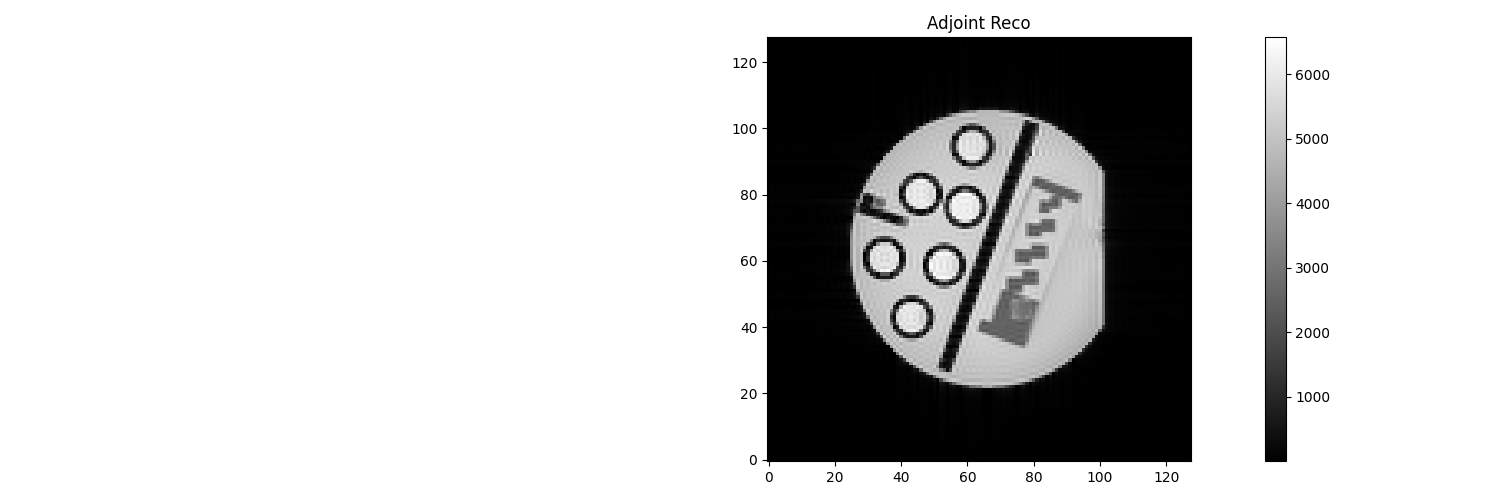
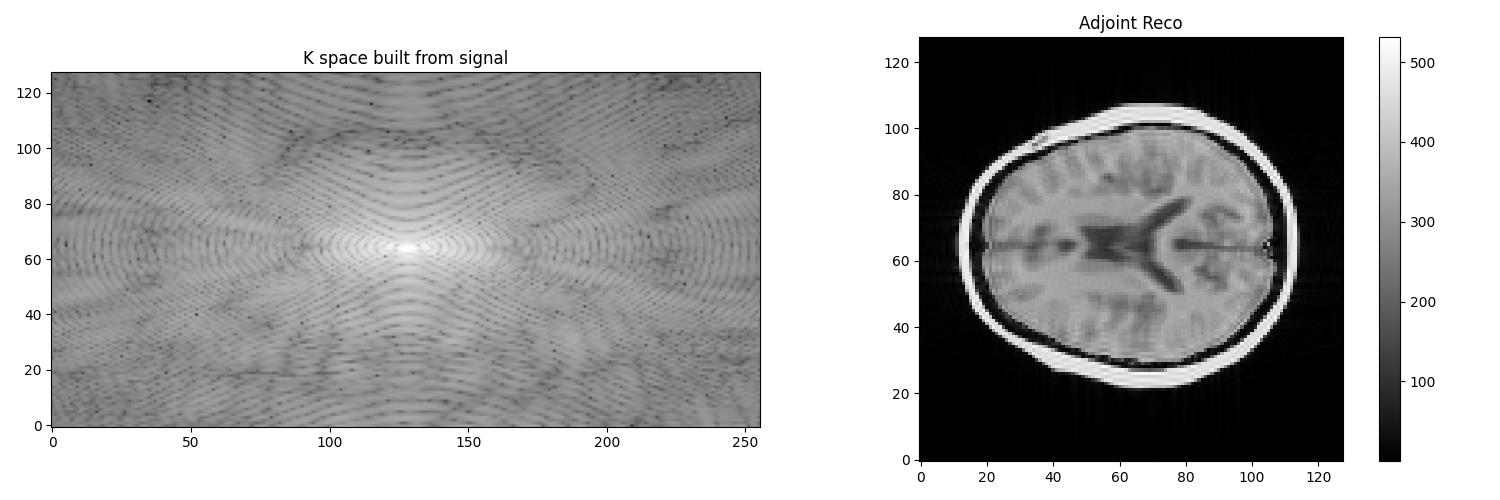
brainweb phantom generation added

diff --git a/src/voxelgridphantom/brainweb_download.py b/src/voxelgridphantom/brainweb_download.py
@@ -1,0 +1,183 @@
+# SPDX-License-Identifier: AGPL-3.0-or-later
+"""Generate separate water/fat NPZ maps from the BrainWeb fuzzy tissue data.
+
+Numerical conventions follow the MRtini generator supplied by the user.
+Historical tissue constants: MRzero-Core, commit d7362c876bb39d7221354a2388d0e6df3c3ff959.
+BrainWeb source: https://brainweb.bic.mni.mcgill.ca/brainweb/
+"""
+from pathlib import Path
+import gzip
+import json
+import os
+import tempfile
+import zipfile
+import numpy as np
+
+_RAW_SHAPE = (362, 434, 362)
+_FOV = (0.181, 0.217, 0.181)
+_URL = 'https://brainweb.bic.mni.mcgill.ca/cgi/brainweb1'
+_CONFIG = Path(__file__).with_name('brainweb_presets.json')
+_KEYS = {'PD': 'PD', 'T1': 'T1', 'T2': 'T2', "T2'": 'T2dash', 'D': 'D'}
+_FAT = {'fat', 'mus', 'm-s', 'dura', 'fat2'}
+
+
+def _raw_bytes(path, size):
+    with gzip.open(path, 'rb') as f:
+        raw = f.read(size + 1)
+    if len(raw) != size:
+        raise ValueError(f'{path}: expected {size} uncompressed bytes, got {len(raw)}')
+    return raw
+
+
+def _load_raw(subject, alias, cache_dir, shape, verbose):
+    tag = f'subject{subject:02d}_{alias}'
+    path = cache_dir / (tag + '.i8.gz')
+    size = int(np.prod(shape))
+    if path.exists():
+        try:
+            raw = _raw_bytes(path, size)
+            if verbose: print(f'Using cached {tag}', flush=True)
+            return np.frombuffer(raw, np.uint8).reshape(shape).swapaxes(0, 2)
+        except (OSError, EOFError, ValueError):
+            if verbose: print(f'Invalid cache {path}; downloading again', flush=True)
+    import requests  # only needed when raw data is absent
+    if verbose: print(f'Downloading {tag} ...', flush=True)
+    fd, name = tempfile.mkstemp(dir=cache_dir, suffix='.part')
+    os.close(fd)
+    tmp = Path(name)
+    try:
+        with requests.post(_URL, data={'do_download_alias':tag, 'format_value':'raw_byte', 'zip_value':'gnuzip'}, stream=True, timeout=(20,180)) as response:
+            response.raise_for_status()
+            with tmp.open('wb') as f:
+                for chunk in response.iter_content(chunk_size=1024*1024):
+                    if chunk: f.write(chunk)
+        raw = _raw_bytes(tmp, size)  # validate gzip and shape before publishing cache
+        os.replace(tmp, path)
+    except Exception as exc:
+        raise RuntimeError(f'BrainWeb download failed for {tag}: {exc}') from exc
+    finally:
+        tmp.unlink(missing_ok=True)
+    return np.frombuffer(raw, np.uint8).reshape(shape).swapaxes(0, 2)
+
+
+def _tissue_slab(raws, aliases, x0, x1, ny, nz, factor):
+    """Equivalent to sum(load_tissue(...)) followed by the original downsample."""
+    slab = None
+    for raw, alias in zip(raws, aliases):
+        b = raw[x0*factor:x1*factor, :ny*factor, :nz*factor] + np.uint8(128)
+        if alias == 'ves': b[b == 1] = 0
+        v = b.astype(np.float32) / 255.0
+        if slab is None: slab = v
+        else: slab += v
+    out = np.zeros((x1-x0, ny, nz), np.float64)
+    for i in range(factor):
+        for j in range(factor):
+            for k in range(factor):
+                out += slab[i::factor, j::factor, k::factor]
+    return out / factor**3
+
+
+def _validate_header(path, shape, tissues):
+    """Read NPY headers only; avoids decompressing huge existing maps on reuse."""
+    required = [k+s for k in _KEYS.values() for s in ('_map','_fat')]
+    required += ['tissue_'+t for t in tissues]
+    with zipfile.ZipFile(path) as z:
+        for key in required + ['FOV']:
+            with z.open(key+'.npy') as f:
+                version = np.lib.format.read_magic(f)
+                if version == (1,0): actual, _, dtype = np.lib.format.read_array_header_1_0(f)
+                elif version == (2,0): actual, _, dtype = np.lib.format.read_array_header_2_0(f)
+                else: raise ValueError(f'Unsupported NPY version {version}')
+            if actual != ((3,) if key == 'FOV' else shape) or dtype.kind != 'f':
+                raise ValueError(f'Unexpected map shape or dtype: {key}: {actual}, {dtype}')
+    # Check FOV and (when relevant) both species at generation time in _generate.
+
+
+def _generate(output, subject, cfg, table, cache, shape, verbose, slab_depth):
+    factor = cfg['downsample']
+    if cfg['noise'] != 0: raise ValueError('Noisy configurations are not implemented; no silent substitution.')
+    if type(factor) is not int or factor < 1: raise ValueError('Invalid downsample factor')
+    res = tuple(n//factor for n in (shape[2],shape[1],shape[0]))
+    nx,ny,nz = res
+    tissue_names = cfg['tissues']
+    with tempfile.TemporaryDirectory(prefix='brainweb-build-', dir=output.parent) as td:
+        td = Path(td)
+        files = {}
+        def alloc(key, dtype, dims=res):
+            path = td / (key+'.npy'); files[key] = path
+            return np.lib.format.open_memmap(path, mode='w+', dtype=dtype, shape=dims)
+        fov = alloc('FOV', np.float64, (3,)); fov[:] = _FOV; del fov
+        maps = {k+s:alloc(k+s,np.float32) for k in _KEYS.values() for s in ('_map','_fat')}
+        for arr in maps.values(): arr[:] = 0
+        del arr
+        for name in tissue_names:
+            aliases = table['download-aliases'][name]
+            raws = [_load_raw(subject,a,cache,shape,verbose) for a in aliases]
+            seg = alloc('tissue_'+name,np.float64)
+            props = table['tissues'][cfg['field-strength']][name]
+            suffix = '_fat' if name in _FAT else '_map'
+            if verbose: print(f'Building {name} → {suffix}', flush=True)
+            for x0 in range(0,nx,slab_depth):
+                x1 = min(nx,x0+slab_depth)
+                v = _tissue_slab(raws,aliases,x0,x1,ny,nz,factor)
+                seg[x0:x1] = v
+                for prop,key in _KEYS.items():
+                    maps[key+suffix][x0:x1] += props[prop]*v
+            seg.flush(); del seg, raws
+        for key, arr in maps.items():
+            if key.startswith('PD') and (key.endswith('_map') or any(t in _FAT for t in tissue_names)) and not np.any(arr>0):
+                raise ValueError(f'Generated {key} is empty; check BrainWeb data')
+            arr.flush()
+        del arr; maps.clear()
+        if verbose: print(f'Compressing {output.name} ...',flush=True)
+        archive = td/'phantom.npz'
+        with zipfile.ZipFile(archive,'w',compression=zipfile.ZIP_DEFLATED,compresslevel=6,allowZip64=True) as z:
+            for key,path in files.items(): z.write(path,key+'.npy')
+        _validate_header(archive,res,tissue_names)
+        os.replace(archive,output)
+
+
+def download_brainwebphantom(subject=4, config='3T-highres-fat', output_dir='data', *, cache_dir=None, force=False, verbose=True, config_path=None):
+    """Return Path to a single generated phantom; reuse existing output by default.
+
+    subject: 4 or '04'. No other subjects are downloaded.
+    config: '3T-highres-fat' (default) or '3T' (downsampled water only).
+    output_dir: relative to current working directory unless absolute.
+    cache_dir: defaults to output_dir/brainweb_cache.
+    config_path: optional explicit historical/custom configuration JSON (noise must be zero).
+    force: regenerate NPZ from cached raw tissue maps, without redownloading valid raw files.
+    """
+    if isinstance(subject,bool) or not isinstance(subject,(int,str)) or not str(subject).isdigit():
+        raise ValueError('subject must be a BrainWeb integer ID, e.g. 4 or "04"')
+    subject = int(subject)
+    table = json.loads(Path(config_path or _CONFIG).read_text(encoding='utf-8'))
+    if subject not in table['subjects']: raise ValueError(f'Unknown BrainWeb subject {subject}; choose from {table["subjects"]}')
+    if config not in table['configs'] or not config or any(c not in 'abcdefghijklmnopqrstuvwxyzABCDEFGHIJKLMNOPQRSTUVWXYZ0123456789-_' for c in config):
+        raise ValueError(f'Unknown/invalid configuration: {config!r}')
+    cfg = table['configs'][config]
+    if cfg['noise'] != 0: raise ValueError('Noisy configurations are not supported by this deterministic generator')
+    factor = cfg['downsample']
+    if type(factor) is not int or factor < 1: raise ValueError('Invalid downsample factor')
+    root = Path(output_dir).expanduser(); root.mkdir(parents=True,exist_ok=True)
+    output = root / f'subject{subject:02d}_{config}.npz'
+    res = tuple(n//factor for n in (_RAW_SHAPE[2],_RAW_SHAPE[1],_RAW_SHAPE[0]))
+    if output.exists() and not force:
+        _validate_header(output,res,cfg['tissues'])
+        if verbose: print(f'Using existing phantom: {output}',flush=True)
+        return output
+    cache = Path(cache_dir).expanduser() if cache_dir is not None else root/'brainweb_cache'
+    cache.mkdir(parents=True,exist_ok=True)
+    _generate(output,subject,cfg,table,cache,_RAW_SHAPE,verbose,8)
+    if verbose: print(f'Phantom ready: {output}',flush=True)
+    return output
+
+
+def main():
+    import argparse
+    p = argparse.ArgumentParser(description=__doc__)
+    p.add_argument('--subject',default='04'); p.add_argument('--config',default='3T-highres-fat')
+    p.add_argument('--output-dir',default='data'); p.add_argument('--cache-dir'); p.add_argument('--config-path')
+    p.add_argument('--force',action='store_true')
+    a=p.parse_args(); download_brainwebphantom(a.subject,a.config,a.output_dir,cache_dir=a.cache_dir,force=a.force,config_path=a.config_path)
+
+if __name__=='__main__': main()

diff --git a/sim_run.py b/sim_run.py
@@ -20,14 +20,14 @@ from src.recon.nufft_recon import _reconstruct
 from src.mrtini.RF_banks import build_prepass_inputs_from_hybrid
 import numpy as np
 from src.mrtini.optimized import compute_graph_fast, execute_graph_fast
-
+import src.mrtini as mrtini
 Nx = Ny = 128
 # seq_names = ["2D_spiral", "2D_radial", "SE_EPI","EPI", "FLASH", "RARE"]
-seq_names = [f"SE_EPI"]
-
+seq_names = [f"FLASH"]
+phantom_path = mrtini.download_brainwebphantom(subject=4)
 for seq_name in seq_names:
     seq = Sequence.import_file_for_mrtini_sim(f"src/sequence/gstar_seqs/{seq_name}_sequence_raw.json")
-    phantom = voxel_grid_phantom.VoxelGridPhantom.brainweb("data/subject04_3T-highres-fat_custom_dense.npz")
+    phantom = voxel_grid_phantom.VoxelGridPhantom.brainweb(str(phantom_path))
     phantom = phantom.interpolate(Nx, Ny, 31).slices([15])  # select slices
     # phantom = phantom.interpolate(Nx, Ny, 320).slices(list(np.linspace(160-16, 160+16, 32, dtype=int)))  # to use 3D slice
     # data.multi_slice = True  # enable multi-slice mode, which relies on the z grid samples to capture through-plane effects for each slice independently.

diff --git a/3D_sim_recon_server.py b/3D_sim_recon_server.py
@@ -133,7 +133,7 @@ Nx = Ny = 96
 Npart = 32 ## number of partitions/slices in the z direction, which determines the z resolution and FOVz. For simplicity we just set it to the same as the number of slices we are using, but ideally it should be set to cover the whole phantom with sufficient resolution to capture through-plane effects.
 FOVz = Npart * SLICE_THICKNESS  # 320 mm
 
-phantom3d = VoxelGridPhantom.load("data/subject04_3T-highres-fat_custom_dense.npz")
+phantom3d = VoxelGridPhantom.load("data/subject04_3T-highres-fat.npz")
 phantom3d = phantom3d.interpolate(Nx, Ny, Npart).slices(list(range(Npart)))
 phantom3d.size[-1] = torch.tensor([FOVz])
 
@@ -300,7 +300,7 @@ def simulate_mr0(sequenceData, state_count=200, min_state_mag=1e-4,
     art = MRtiniSim(device="cuda", seq=seq).bake_bloch_kernels(
         phantom_data=phantom3d,
         z_span_m=FOVz,
-        global_RF=False, ##  Change to True to use global RF ~ hard pulse approximation for Faster sim
+        global_RF=True, ##  Change to True to use global RF ~ hard pulse approximation for Faster sim
         tap_threshold=tap_threshold
     )
     

diff --git a/sim_recon_server.py b/sim_recon_server.py
@@ -132,7 +132,7 @@ time.sleep(0.1)
 Nx = Ny = 128
 # phantom generation
 Npart = 30 ## number of partitions/slices in the z direction, which determines the z resolution and FOVz. For simplicity we just set it to the same as the number of slices we are using, but ideally it should be set to cover the whole phantom with sufficient resolution to capture through-plane effects.
-phantom = VoxelGridPhantom.load("data/subject04_3T-highres-fat_custom_dense.npz")
+phantom = VoxelGridPhantom.load("data/subject04_3T-highres-fat.npz")
 # phantom = VoxelGridPhantom.load("data/pro_mri_180mm_water_fat_species_512.npz")
 # phantom = phantom.interpolate(Nx, Ny, Npart).slices(list(range(Npart)))
 phantom = phantom.interpolate(Nx, Ny, Npart).slices([14])

diff --git a/sim_run_lf_phantom.py b/sim_run_lf_phantom.py
@@ -24,8 +24,8 @@ seq_names = [ "FLASH"]
 
 for seq_name in seq_names:
     seq = Sequence.import_file_for_mrtini_sim(f"src/sequence/gstar_seqs/{seq_name}_sequence_raw.json")
-    # lf_phantom_path = "data/sim_phantom.npz"
-    lf_phantom_path = "data/pro_mri_180mm_water_fat_species_512.npz"
+    lf_phantom_path = "data/sim_phantom.npz"
+    # lf_phantom_path = "data/pro_mri_180mm_water_fat_species_512.npz"
     lf_phantom = np.load(lf_phantom_path)
     print("Loaded phantom keys:", lf_phantom.keys())
 

diff --git a/src/mrtini/__init__.py b/src/mrtini/__init__.py
@@ -1,6 +1,7 @@
 # src/mrtini/__init__.py
 from .bloch import solve_slice
 from .mrtini_main import MRtiniSim
+from ..voxelgridphantom import download_brainwebphantom
 __all__ = ["solve_slice"]
 
 __all__.append("MRtiniSim")

diff --git a/src/voxelgridphantom/__init__.py b/src/voxelgridphantom/__init__.py
@@ -1,0 +1,1 @@
+from .brainweb_download import download_brainwebphantom
